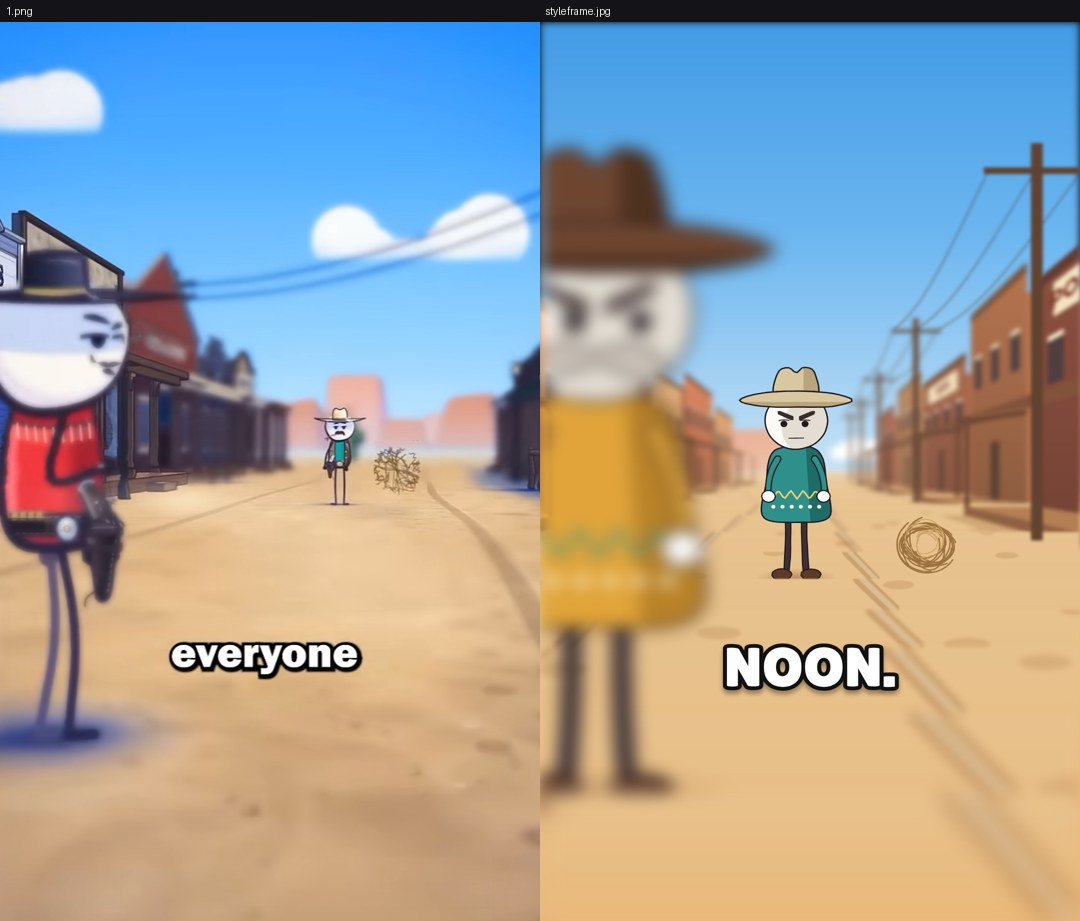
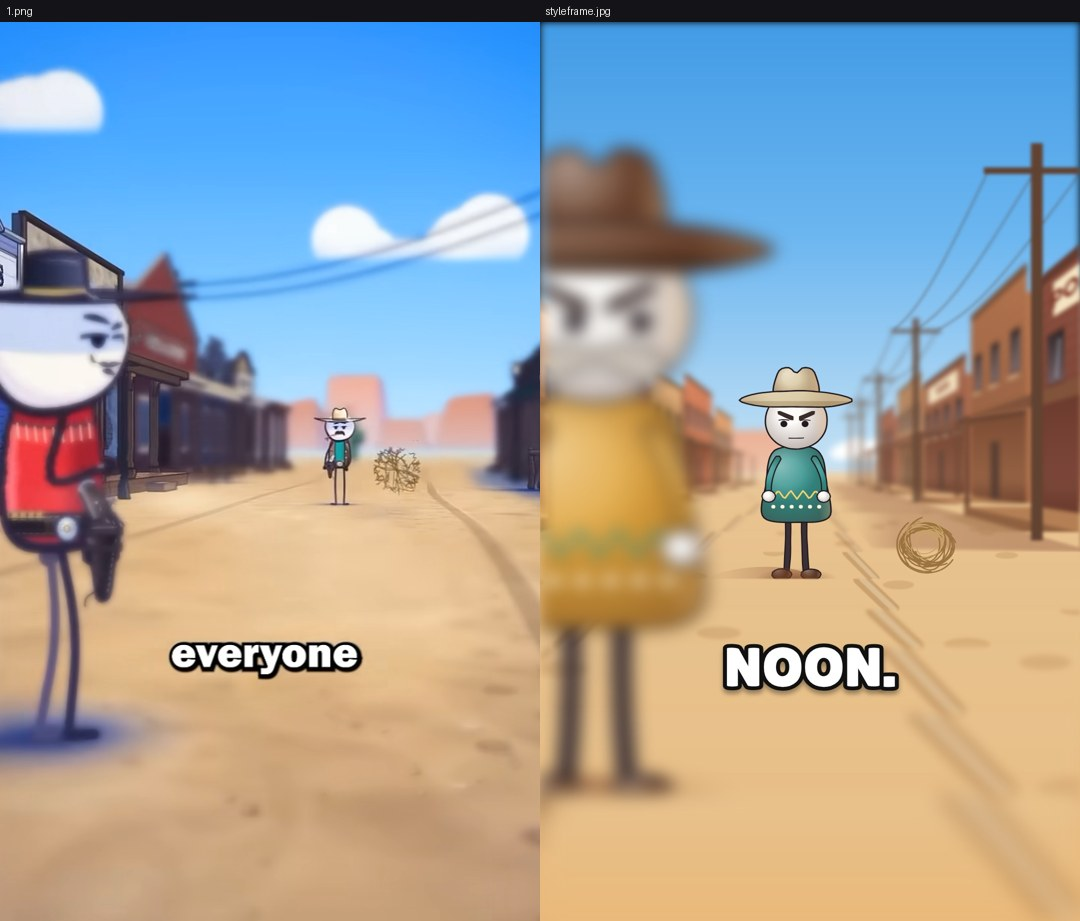
Shallow-Focus Toon: add volume shading and set shadows
Characters get soft key/falloff/rim shading; the set gets cast
shadows, ambient occlusion, siding and recessed windows. STYLE.md
and CHANGES.md record the change.

Claude-Session: https://claude.ai/code/session_01TBX8tDfdt1fMBeEsdCe9x1

diff --git a/focus-toon-test/cast.js b/focus-toon-test/cast.js
@@ -1,9 +1,23 @@
 // cast.js — Shallow-Focus Toon characters. Local units are centimetres, origin at the feet, y down.
 import { clamp, lerp } from '/core/lib.js';
-import { INK, push, pop, translate, rotate, scale, shape, fillOnly, stroke, ell, arc, spline, rr, rect, noodle, quad, dot, text, S } from './toon.js';
+import { INK, g, push, pop, translate, rotate, scale, shape, fillOnly, stroke, ell, arc, spline, rr, rect, noodle, quad, dot, text, S, tx, zoom } from './toon.js';
 import { P, pxPerM } from './world.js';
 
 export const HEAD = '#fbfaf7', HEADS = '#e3ddd3';
+
+// soft volume shading inside a clipped shape: key light from the upper left, form falloff, warm rim from the right
+export function vol(cx, cy, r, k = 1) {
+  const [sx, sy] = tx(cx, cy), R = Math.max(1, r * zoom());
+  let gr = g.createRadialGradient(sx - R * .38, sy - R * .42, 0, sx - R * .38, sy - R * .42, R * .9);
+  gr.addColorStop(0, `rgba(255,255,255,${.42 * k})`); gr.addColorStop(1, 'rgba(255,255,255,0)');
+  g.fillStyle = gr; g.fillRect(sx - R * 2, sy - R * 2, R * 4, R * 4);
+  gr = g.createRadialGradient(sx - R * .2, sy - R * .25, R * .35, sx - R * .1, sy - R * .1, R * 1.25);
+  gr.addColorStop(0, 'rgba(70,35,25,0)'); gr.addColorStop(1, `rgba(70,35,25,${.42 * k})`);
+  g.fillStyle = gr; g.fillRect(sx - R * 2, sy - R * 2, R * 4, R * 4);
+  gr = g.createLinearGradient(sx + R * .55, 0, sx + R * 1.02, 0);
+  gr.addColorStop(0, 'rgba(255,214,160,0)'); gr.addColorStop(1, `rgba(255,214,160,${.5 * k})`);
+  g.fillStyle = gr; g.fillRect(sx + R * .5, sy - R * 2, R * 1.5, R * 4);
+}
 
 // place a character at world (x, z) and scale it to the lens; line width follows size, within limits
 export function place(x, z, fn, { y = 0, lean = 0 } = {}) {
@@ -44,14 +58,14 @@ export function person(o = {}) {
     const sw = walk < 0 ? 0 : Math.sin(ph * Math.PI * 2 + (sgn > 0 ? Math.PI : 0)) * 10;
     const up = walk < 0 ? 0 : Math.max(0, Math.sin(ph * Math.PI * 2 + (sgn > 0 ? Math.PI : 0))) * 6;
     shape(noodle([sgn * 9, -74], [sgn * 11 + sw, -6 - up], sgn * 2, 6, 6), { fill: legs, lw: 5 });
-    shape(ell(sgn * 13 + sw + sgn * 3, -5 - up, 11, 6.5, 18), { fill: shoe, lw: 5 });
+    shape(ell(sgn * 13 + sw + sgn * 3, -5 - up, 11, 6.5, 18), { fill: shoe, lw: 5, shade: () => vol(sgn * 13 + sw + sgn * 3, -5 - up, 11, .8) });
   }
   push(); translate(0, -74); scale(1, by); rotate(tilt); translate(0, 74);
   // poncho / tunic
   const bodyP = spline([[-23, -150], [23, -150], [33, -110], [36, -72], [0, -66], [-36, -72], [-33, -110]]);
   shape(bodyP, {
     fill: body, lw: 6, shade: () => {
-      fillOnly([[10, -160], [50, -160], [50, -60], [16, -60]], bodyS, { boil: .3 });
+      vol(0, -112, 46, 1);
       // zig-zag band and dots
       const zz = []; for (let i = 0; i <= 12; i++) zz.push([-40 + i * 6.8, -98 + (i % 2 ? -5 : 5)]);
       stroke(zz, 7, { line: trim, boil: .3 });
@@ -62,13 +76,13 @@ export function person(o = {}) {
   const sh = [[-20, -140], [20, -140]];
   const hands = [[-30 - armL * 4, -96 - armL * 52], [30 + armR * 4, -96 - armR * 52]];
   for (let k = 0; k < 2; k++) {
-    shape(noodle(sh[k], hands[k], (k ? -1 : 1) * 8, 7, 6), { fill: body, lw: 5 });
-    shape(ell(hands[k][0], hands[k][1], 7.5, 7, 16), { fill: HEAD, lw: 5 });
+    shape(noodle(sh[k], hands[k], (k ? -1 : 1) * 8, 7, 6), { fill: body, lw: 5, shade: () => vol((sh[k][0] + hands[k][0]) / 2, (sh[k][1] + hands[k][1]) / 2, 22, .7) });
+    shape(ell(hands[k][0], hands[k][1], 7.5, 7, 16), { fill: HEAD, lw: 5, shade: () => vol(hands[k][0], hands[k][1], 7.5, .8) });
   }
   if (hold) hold(hands[1]);
   // head
   const hy = -184 + lift;
-  shape(ell(0, hy, 34, 33, 48), { fill: HEAD, lw: 6, shade: () => fillOnly(ell(14, hy + 8, 30, 32, 30), HEADS, { boil: .3 }) });
+  shape(ell(0, hy, 34, 33, 48), { fill: HEAD, lw: 6, shade: () => vol(0, hy, 34, .9) });
   face(0, hy + 4, 34, { look, brow, lid, blink });
   if (stache) {
     const m = spline([[-2, hy + 13], [-14, hy + 11], [-24, hy + 18], [-20, hy + 26], [-8, hy + 22], [0, hy + 19], [8, hy + 22], [20, hy + 26], [24, hy + 18], [14, hy + 11], [2, hy + 13]]);
@@ -79,10 +93,10 @@ export function person(o = {}) {
   // hat
   if (hatOn) {
     push(); translate(0, hy - 26); rotate(droop * .12); translate(0, droop * 6);
-    shape(spline([[-22, 0], [-20, -30], [-8, -36], [0, -30], [8, -36], [20, -30], [22, 0]]), { fill: hat, lw: 6, shade: () => fillOnly(rect(8, -40, 20, 44), hatS, { boil: .3 }) });
+    shape(spline([[-22, 0], [-20, -30], [-8, -36], [0, -30], [8, -36], [20, -30], [22, 0]]), { fill: hat, lw: 6, shade: () => vol(0, -18, 26, 1) });
     fillOnly(rect(-22, -9, 44, 8), band, { boil: .3 });
     const dr = droop * 14;
-    shape(spline([[-62, 2 + dr], [-40, -6], [0, -9], [40, -6], [62, 2 + dr], [40, 9], [0, 10], [-40, 9]]), { fill: hat, lw: 6, shade: () => fillOnly(rect(-70, 4, 140, 20), hatS, { boil: .3 }) });
+    shape(spline([[-62, 2 + dr], [-40, -6], [0, -9], [40, -6], [62, 2 + dr], [40, 9], [0, 10], [-40, 9]]), { fill: hat, lw: 6, shade: () => { fillOnly(rect(-70, 3, 140, 20), hatS, { boil: .3 }); vol(0, 0, 62, .6); } });
     pop();
   }
   pop();
@@ -107,7 +121,7 @@ export function pedro({ view = 'side', face = -1, step = -1, look = [0, 0], brow
     }
     push(); translate(0, -bob);
     shape(spline([[-34, -10], [-30, -32], [-14, -44], [14, -44], [30, -32], [34, -10], [0, -6]]), {
-      fill: shell, lw: 6, shade: () => { fillOnly(rect(8, -50, 40, 50), shellS, { boil: .3 }); for (const [x, y] of [[-14, -30], [0, -36], [14, -30]]) shape(spline([[x - 7, y], [x, y - 6], [x + 7, y], [x + 5, y + 7], [x - 5, y + 7]]), { fill: null, lw: 3, line: '#4f6a2c' }); }
+      fill: shell, lw: 6, shade: () => { vol(0, -28, 36, 1); for (const [x, y] of [[-14, -30], [0, -36], [14, -30]]) shape(spline([[x - 7, y], [x, y - 6], [x + 7, y], [x + 5, y + 7], [x - 5, y + 7]]), { fill: null, lw: 3, line: '#4f6a2c' }); }
     });
     shape(rr(-36, -14, 72, 8, 4), { fill: rim, lw: 5 });
     // bag strap and bag on his right
@@ -115,7 +129,7 @@ export function pedro({ view = 'side', face = -1, step = -1, look = [0, 0], brow
     shape(rr(26, -24, 16, 16, 4), { fill: bag, lw: 4 });
     // head + neck
     shape(rr(-6, -20, 12, 12, 5), { fill: skin, lw: 5 });
-    shape(ell(0, -26, 13, 12.5, 30), { fill: HEAD, lw: 6, shade: () => fillOnly(ell(6, -22, 12, 13, 20), HEADS, { boil: .3 }) });
+    shape(ell(0, -26, 13, 12.5, 30), { fill: HEAD, lw: 6, shade: () => vol(0, -26, 13, .9) });
     face(0, -24, 13, { look, brow, lid: .25, blink, eyeR: .13, gap: .38 });
     shape(spline([[-13, -33], [-10, -42], [10, -42], [13, -33]]), { fill: cap, lw: 5, shade: () => fillOnly(rect(4, -46, 12, 16), capS, { boil: .3 }) });
     shape(ell(0, -33, 15, 3.5, 20), { fill: capS, lw: 4 });
@@ -137,7 +151,7 @@ export function pedro({ view = 'side', face = -1, step = -1, look = [0, 0], brow
   // shell
   shape(spline([[-38, -10], [-32, -34], [-8, -46], [20, -42], [36, -26], [38, -10], [0, -6]]), {
     fill: shell, lw: 6, shade: () => {
-      fillOnly(spline([[-44, -20], [0, -16], [44, -18], [44, 0], [-44, 0]]), shellS, { boil: .3 });
+      vol(0, -26, 40, 1);
       for (const [x, y] of [[-20, -26], [0, -32], [20, -26], [-6, -18], [14, -16]]) shape(spline([[x - 8, y], [x - 2, y - 7], [x + 7, y - 4], [x + 6, y + 5], [x - 4, y + 6]]), { fill: null, lw: 3, line: '#4f6a2c' });
     }
   });
@@ -148,7 +162,7 @@ export function pedro({ view = 'side', face = -1, step = -1, look = [0, 0], brow
   // neck and head
   shape(noodle([30, -14], [46, -26], -3, 11, 10), { fill: skin, lw: 5 });
   push(); translate(50, -30);
-  shape(ell(0, 0, 13, 12.5, 30), { fill: HEAD, lw: 6, shade: () => fillOnly(ell(-6, 5, 12, 12, 20), HEADS, { boil: .3 }) });
+  shape(ell(0, 0, 13, 12.5, 30), { fill: HEAD, lw: 6, shade: () => vol(0, 0, 13, .9) });
   face(4, 1, 12, { look: [look[0] * -face, look[1]], brow, lid: .25, blink, eyeR: .13, gap: .4 });
   shape(spline([[-12, -8], [-9, -18], [9, -18], [12, -8]]), { fill: cap, lw: 5, shade: () => fillOnly(rect(4, -22, 12, 16), capS, { boil: .3 }) });
   shape(spline([[6, -10], [22, -9], [22, -6], [6, -6]]), { fill: capS, lw: 4 });

diff --git a/focus-toon-test/world.js b/focus-toon-test/world.js
@@ -112,6 +112,15 @@ export function groundItems(zs) {
           const z = lerp(Math.max(zn, cam.z + .4), zf, R()), x = lerp(-4, 4, R()), [sx, sy] = P(x, 0, z), s = pxPerM(z);
           g.fillStyle = 'rgba(160,110,60,.22)'; g.beginPath(); g.ellipse(sx, sy, .16 * s, .05 * s, 0, 0, Math.PI * 2); g.fill();
         }
+        // buildings on the right cast a shadow band onto the street; porches shade the boardwalk edge
+        for (const b of TOWN) {
+          const xs = b.side * 6.6, w = b.side > 0 ? 3.2 : .9, za = Math.max(b.z0, cam.z + .3);
+          if (b.z1 <= cam.z + .3) continue;
+          const xa = xs - b.side * 1.9, xb = xa - b.side * w;
+          const q = g.createLinearGradient(...P(xa, 0, (za + b.z1) / 2), ...P(xb, 0, (za + b.z1) / 2));
+          q.addColorStop(0, 'rgba(120,62,48,.34)'); q.addColorStop(.75, 'rgba(120,62,48,.26)'); q.addColorStop(1, 'rgba(120,62,48,0)');
+          poly(g, [P(xa, 0, za), P(xa, 0, b.z1 + 1.2), P(xb, 0, b.z1 + 1.8), P(xb, 0, za + .6)], q);
+        }
         g.restore();
       }
     });
@@ -135,14 +144,24 @@ export function building(b) {
       const gr = g.createLinearGradient(0, top, 0, bot);
       gr.addColorStop(0, hz(shadeHex(face, 1.12), zc)); gr.addColorStop(1, hz(shadeHex(face, .82), zc));
       poly(g, f, gr);
+      // wood siding
+      g.strokeStyle = 'rgba(60,25,15,.13)'; g.lineWidth = Math.max(.6, .03 * pxPerM(zc));
+      for (let y = 3.3; y < h + .8; y += .32) { g.beginPath(); g.moveTo(...P(xs, y, z0)); g.lineTo(...P(xs, y, z1)); g.stroke(); }
+      // porch shadow on the wall and ambient occlusion at the base
+      const ao = (ya, yb, a) => { const pa = P(xs, ya, zc), pb = P(xs, yb, zc); const q = g.createLinearGradient(0, pa[1], 0, pb[1]); q.addColorStop(0, `rgba(55,22,12,${a})`); q.addColorStop(1, 'rgba(55,22,12,0)'); poly(g, [P(xs, ya, z0), P(xs, ya, z1), P(xs, yb, z1), P(xs, yb, z0)], q); };
+      ao(3.1, 1.2, lit ? .45 : .3); ao(0, .9, .35);
       // trim along the top
       poly(g, [P(xs, h + .9, z0), P(xs, h + .9, z1), P(xs, h + .6, z1), P(xs, h + .6, z0)], hz(shadeHex(col, .55), zc));
       // windows (upper) and door (lower)
       const n = Math.max(1, Math.round((z1 - z0) / 3.2));
       for (let k = 0; k < n; k++) {
         const za = lerp(z0, z1, (k + .3) / n), zb = lerp(z0, z1, (k + .7) / n);
-        poly(g, [P(xs, h - 2.2, za), P(xs, h - 2.2, zb), P(xs, h - .9, zb), P(xs, h - .9, za)], hz('#3b2a2e', za, .05));
-        poly(g, [P(xs, h - 1.05, za), P(xs, h - 1.05, zb), P(xs, h - .9, zb), P(xs, h - .9, za)], hz('#f5e6c8', za));
+        poly(g, [P(xs, h - 2.3, za - .08), P(xs, h - 2.3, zb + .08), P(xs, h - .8, zb + .08), P(xs, h - .8, za - .08)], hz(shadeHex(col, .6), za));
+        const wg = g.createLinearGradient(0, P(xs, h - .9, za)[1], 0, P(xs, h - 2.2, za)[1]);
+        wg.addColorStop(0, hz('#1f1518', za, .03)); wg.addColorStop(1, hz('#5c4a52', za, .05));
+        poly(g, [P(xs, h - 2.2, za), P(xs, h - 2.2, zb), P(xs, h - .9, zb), P(xs, h - .9, za)], wg);
+        g.globalAlpha = .35; poly(g, [P(xs, h - 1.1, za + (zb - za) * .15), P(xs, h - 1.1, za + (zb - za) * .35), P(xs, h - 2.1, za + (zb - za) * .55), P(xs, h - 2.1, za + (zb - za) * .35)], '#bfe0f0'); g.globalAlpha = 1;
+        poly(g, [P(xs, h - 2.3, za - .12), P(xs, h - 2.3, zb + .12), P(xs - side * .12, h - 2.42, zb + .12), P(xs - side * .12, h - 2.42, za - .12)], hz('#f5e6c8', za));
       }
       const dz = lerp(z0, z1, .5);
       poly(g, [P(xs, 0, dz - .6), P(xs, 0, dz + .6), P(xs, 2.3, dz + .6), P(xs, 2.3, dz - .6)], hz('#4a3026', dz));
@@ -195,7 +214,12 @@ export function pole(x, z, zNext) {
   };
 }
 // soft contact shadow under a character
-export function contact(g, x, z, rx = .45, a = .4) {
+export function contact(g, x, z, rx = .45, a = .55) {
+  // sun shadow: a soft elongated shape falling to the lower left
+  { const [sx, sy] = P(x, 0, z), [ex, ey] = P(x - .9, 0, z - .35), s = pxPerM(z);
+    g.save(); g.translate(sx, sy); g.rotate(Math.atan2(ey - sy, ex - sx)); const L = Math.hypot(ex - sx, ey - sy);
+    const q = g.createLinearGradient(0, 0, L, 0); q.addColorStop(0, 'rgba(120,62,40,.38)'); q.addColorStop(1, 'rgba(120,62,40,0)');
+    g.fillStyle = q; g.beginPath(); g.ellipse(L * .45, 0, L * .6, .16 * s, 0, 0, Math.PI * 2); g.fill(); g.restore(); }
   const [sx, sy] = P(x, 0, z), s = pxPerM(z);
   const gr = g.createRadialGradient(sx, sy, 0, sx, sy, rx * s);
   gr.addColorStop(0, `rgba(110,60,30,${a})`); gr.addColorStop(1, 'rgba(110,60,30,0)');

diff --git a/focus-toon-test/style/STYLE.md b/focus-toon-test/style/STYLE.md
@@ -8,20 +8,21 @@ Default size: 1080×1920.
 
 ## 1. Essence, and what it is not
 
-Two depths of image in one frame: **flat 2D characters** (constant thick outlines, flat fills, one hard shadow shape) and a **soft, gradient-shaded painted world** that behaves like it was shot through a real lens: whatever is off the focal plane melts into blur, and focus can **rack** from a foreground face to a tiny figure far away. The characters are **round white heads, small dot eyes under heavy brows, tiny or no nose, noodle legs, chunky clothes**; they act with the face, not the body. A narrator tells the story, and the narration lands on screen **one big outlined word at a time**.
+Two depths of image in one frame: **outlined 2D characters with soft volume shading** (constant thick outlines, round light-and-shade) and a **soft, gradient-shaded painted world** that behaves like it was shot through a real lens: whatever is off the focal plane melts into blur, and focus can **rack** from a foreground face to a tiny figure far away. The characters are **round white heads, small dot eyes under heavy brows, tiny or no nose, noodle legs, chunky clothes**; they act with the face, not the body. A narrator tells the story, and the narration lands on screen **one big outlined word at a time**.
 
-Not a flat vector explainer (the world has depth and soft light), not 3D animation (characters are flat drawings), not a sci-fi sitcom (no portals, no glowing devices, no boiling chaos).
+Not a flat vector explainer (the world has depth, shadows and soft light), not 3D animation (characters are outlined drawings with soft shading, not models), not a sci-fi sitcom (no portals, no glowing devices, no boiling chaos).
 
 **Copyright red lines:** invent the cast. Never reproduce an existing channel's characters, their colour combinations, names or catchphrases. Never name a source channel in a film.
 
 ## 2. Materials & rendering
 
-- **Characters**: near-black warm line (`#231a1f`), ~6 px at full-body size, constant in screen space (transform points to screen, then stroke). Calm boil: ~0.8 px, 3 drawings at 12 fps. Flat fills, **one hard-edged shadow shape** per form, away from the sun.
+- **Characters**: near-black warm line (`#231a1f`), ~6 px at full-body size, constant in screen space (transform points to screen, then stroke). Calm boil: ~0.8 px, 3 drawings at 12 fps. **Soft volume shading** on every form (head, garment, hat, hands, shoes, shell): a radial key light from the upper left, a darker falloff toward the lower right edge and a warm rim light on the right, so the flat drawings read as round objects in the 3D set. The outline stays.
 - **Heads**: white `#fbfaf7` circles or soft eggs, 0.45–0.6 of the torso height; eyes are solid dots (4–7 px at full size) with a short lid line for deadpan; brows are thick dark wedges and carry all emotion; a mustache or nose is an optional extra shape.
 - **Bodies**: a chunky garment (tunic, vest, poncho) sitting on two noodle legs (constant 12–14 px), small round shoes, mitten hands. A belt, a badge, a stripe pattern: one idea per character.
 - **World**: painted, not drawn. Vertical **gradients**, soft ambient occlusion at contact lines, warm bounce light, no outlines (or very faint ones). Built as **depth layers** (z in metres) through one perspective camera.
 - **Depth of field**: every layer is blurred by its circle of confusion: `blur px = clamp(k · |1/z − 1/focus|, 0, 26)`. The sharp plane is always on a character. Characters off the focal plane blur too (outline included) — that is the look.
-- **Contact shadows**: a soft dark ellipse under each character (multiply, 35–50 %), also blurred with its layer.
+- **Shadows**: a soft dark contact ellipse under each character (~55 %) plus a soft sun shadow falling to the lower left; the right-hand buildings cast a shadow band onto the street; porches shade the walls; ambient occlusion where walls meet the ground. All blur with their layer.
+- **Set detail for depth**: wood siding lines, recessed windows with frames, sills and a sky reflection, boardwalks with a front edge.
 - **Ground**: a perspective street with wheel ruts and footprints as soft darker strokes, receding to a hazy horizon.
 
 ## 3. Colour logic

diff --git a/focus-toon-test/style/CHANGES.md b/focus-toon-test/style/CHANGES.md
@@ -6,7 +6,8 @@ Made from a blank page. "Base" is the technique base (Sci-Fi Sitcom Toon, `scifi
 |---|---|---|---|
 | Size | 1920×1080 | 1080×1920 vertical | the reference is a vertical short |
 | §2 Characters | big white eyes, tiny pupils, elastic mouths, 7 px boiling line | round white heads, dot eyes under heavy brows, noodle legs, chunky clothes, 6 px line with a calm 0.8 px boil | the reference's deadpan round-head cast |
-| §2 World | flat colour, flat colour-band skies | soft gradient-shaded painted set in depth layers through a perspective camera | the reference's painted 3D-looking street |
+| §2 Volume | flat fills with one hard shadow shape | soft volume shading (key light upper left, falloff, warm rim) on every character form | you asked for more 3D ("mehr 3D") after the first style frame |
+| §2 World | flat colour, flat colour-band skies | soft gradient-shaded painted set in depth layers through a perspective camera, with cast shadows, ambient occlusion, siding and recessed windows | the reference's painted 3D-looking street |
 | §2 Depth of field | — (everything sharp) | per-layer lens blur from the focus distance; characters blur too | the reference's shallow focus; borrowed from tilt-shift |
 | §3 Colour | one palette per world, portal glow | sunny saturated sky / sand / terracotta with aerial haze; no glow | the reference's desert-noon light |
 | §4 Captions | subtitle line with a speaker pill | one big Lilita One word at a time, white with a black outline, at 72 % height | the reference's word captions; inspired by caption-news |
